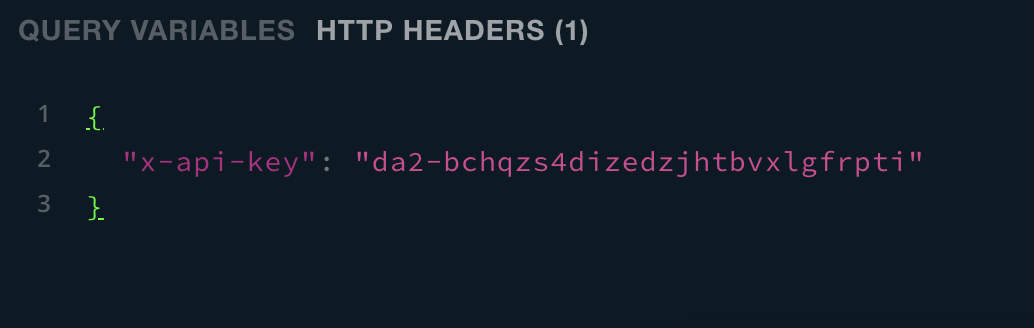
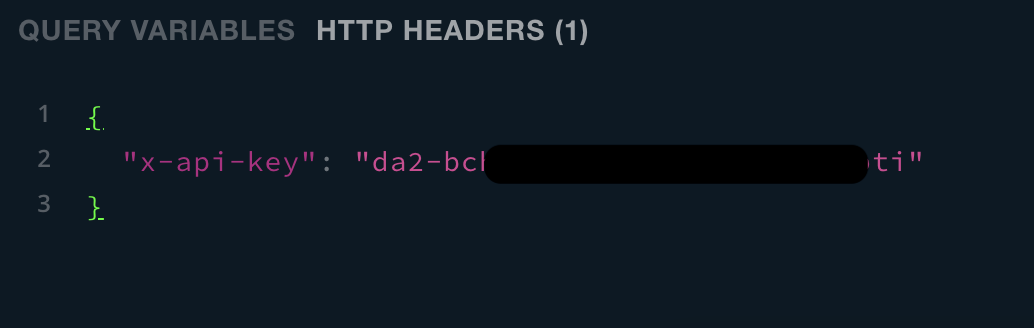
Adding UI installation

Changed region(s): [[0.4642, 0.4268, 0.8665, 0.5793]]

diff --git a/adkt-auth.md b/adkt-auth.md
@@ -18,7 +18,7 @@ To request an API KEY you just have to send the data in the following [form](htt
 
 The following header must be added to the HTTP request with the value received for the API KEY.
 
-`x-api-key: "ds3-oskeiw4dizedzjhtbvxlgjdiwu"`
+`x-api-key: "ds3-xxxxxxxxxxxxxxxcccccccccc"`
 
 ## Example
 
@@ -26,7 +26,7 @@ The following header must be added to the HTTP request with the value received f
 
 ```curl
 curl --location --request POST 'https://x2qmbh2qm5gs7gczfbxebbbeie.appsync-api.us-east-1.amazonaws.com/graphql' \
---header 'x-api-key: ds3-oskeiw4dizedzjhtbvxlgjdiwu' \
+--header 'x-api-key: ds3-xxxxxxxxxxxxxxxcccccccccc' \
 --header 'Content-Type: application/json' \
 --data-raw '{"query":"query getMetadata ($id: ID!) {\n    getMetadata (id: $id) {\n        id\n        reporterName\n        sourceRef\n        createdAt\n        updatedAt\n        metadataDesignDecisionId\n    }\n}","variables":{"id":"5a8df4f3-8b9e-43ad-9229-63b0b893fac8"}}'
 ```
@@ -52,7 +52,7 @@ var config = {
   method: 'post',
   url: 'https://x2qmbh2qm5gs7gczfbxebbbeie.appsync-api.us-east-1.amazonaws.com/graphql',
   headers: { 
-    'x-api-key': 'ds3-oskeiw4dizedzjhtbvxlgjdiwu', 
+    'x-api-key': 'ds3-xxxxxxxxxxxxxxcccccccccccc', 
     'Content-Type': 'application/json'
   },
   data : data

diff --git a/adkt-usage.md b/adkt-usage.md
@@ -1,6 +1,6 @@
 ---
 title: API Usage
-description: How to use ADKT.
+description: How to use the ADKT GraphQL API.
 layout: libdoc/page
 
 #LibDoc specific below
@@ -31,7 +31,7 @@ In the HTTP Header section, setup the API as follow:
 
 ```json
 {
-  "x-api-key": "da2-bchqzs4dizedzjhtbvxlgfrpti"
+  "x-api-key": "da2-xxxxxxxxxxxxxxxxxxxxxxxxx"
 }
 ```
 
